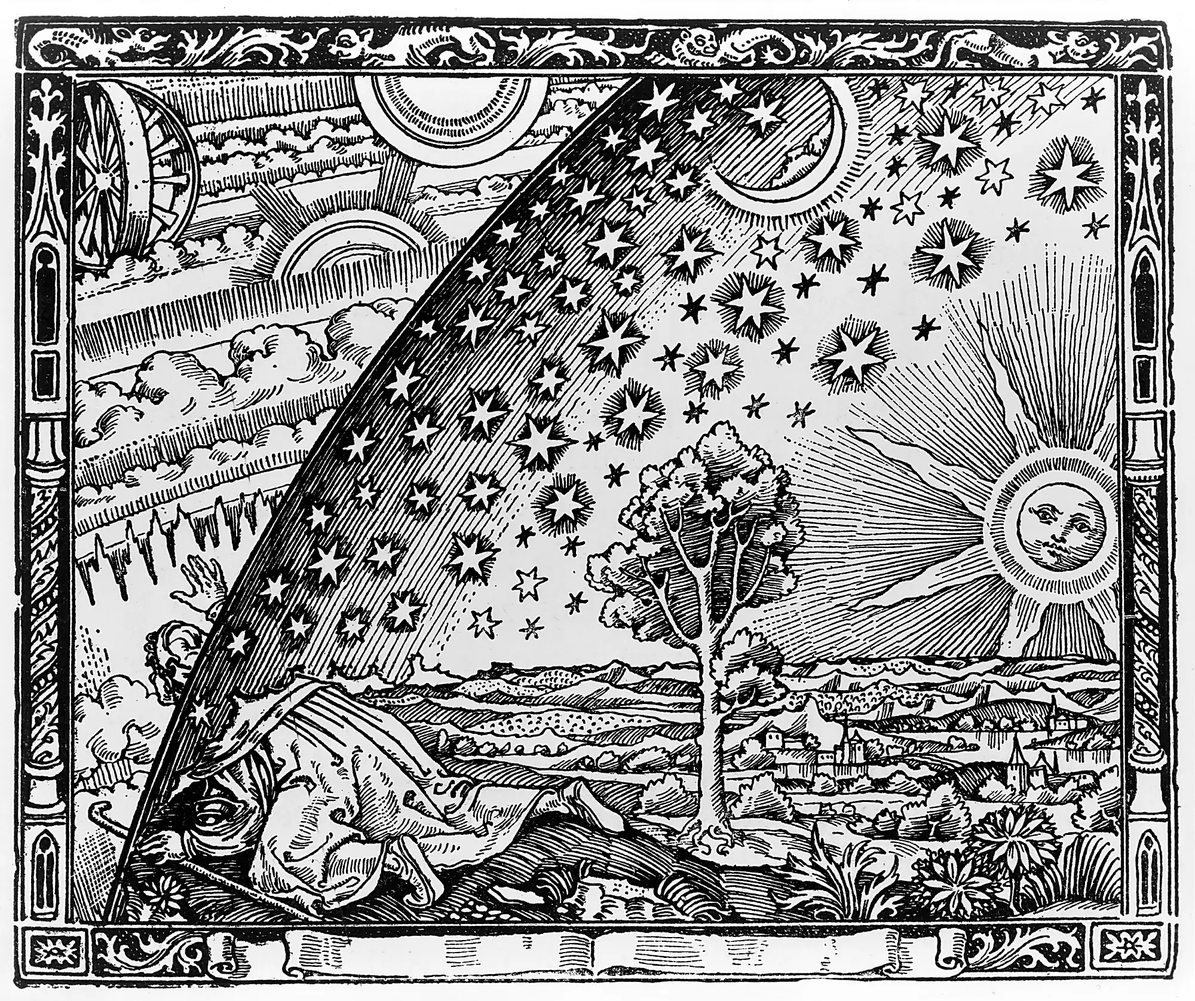
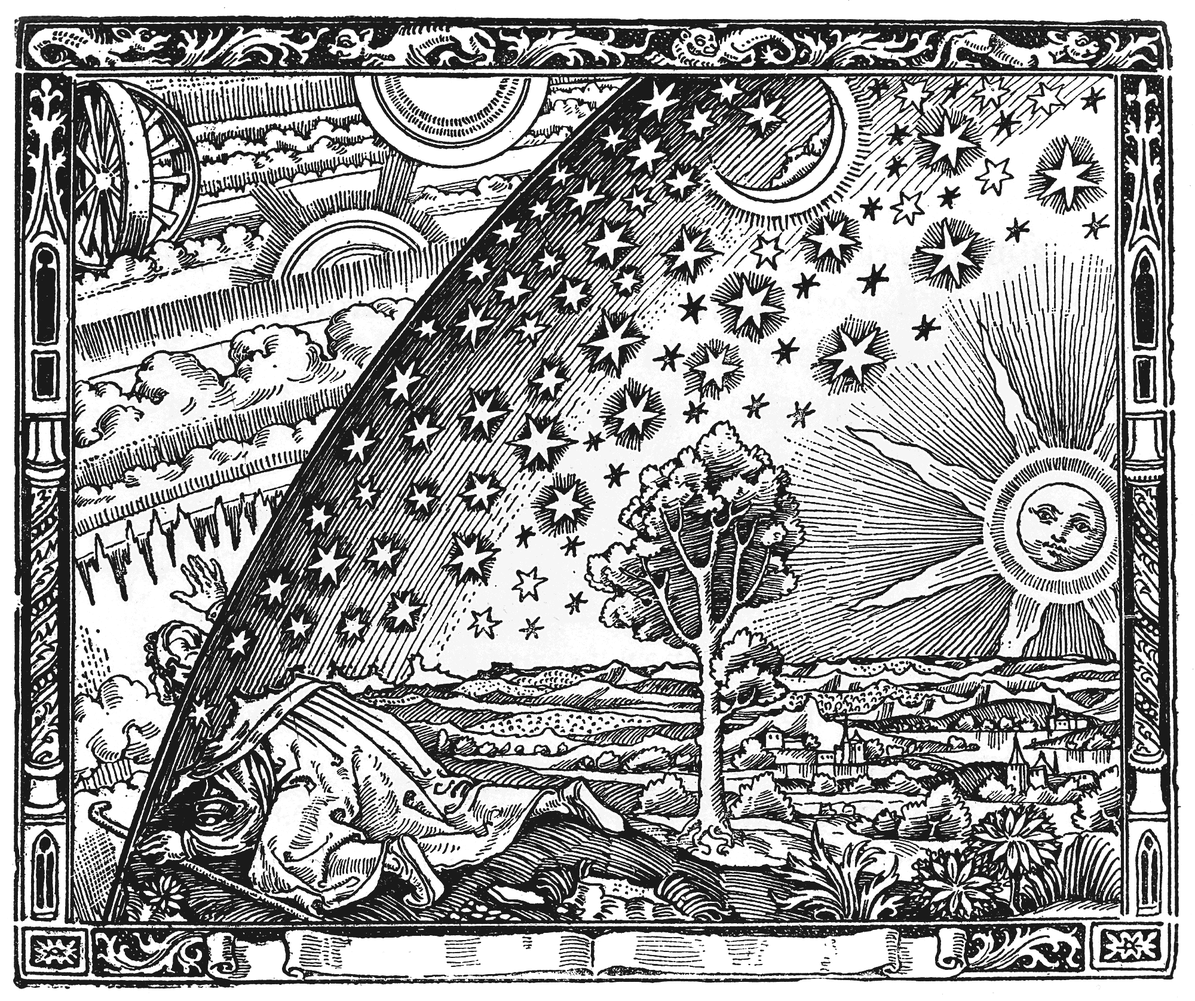
Backdrop: alpha-key the plates so only ink lines remain
The scans' paper is never pure white, so even with multiply blending the
whole page picked up a faint grey veil. The plates are now keyed at
export: luminance maps to alpha (paper >= 232 fully transparent, ink
<= 45 fully opaque, linear between), pixels coloured to the ink tone.
The page stays clean and opacity scales the lines alone.

multiply/grayscale filters dropped from #backdrop and #landing-backdrop
(obsolete), strengths nudged up (0.055 -> 0.07, landing 0.075 -> 0.095)
since the veil no longer contributes.

Changed region(s): [[0.0, 0.031, 0.992, 0.9934], [0.558, 0.031, 0.589, 0.0621], [0.527, 0.9624, 0.558, 0.9934]]

diff --git a/src/App.css b/src/App.css
@@ -51,8 +51,9 @@ body {
 
 /* ─── Engraving backdrop ──────────────────────────────────────────────────────
    Faded public-domain plates (Dürer, Flammarion, Merian…) ghosted into the
-   paper. multiply drops the plate's paper whites into --bg so only the ink
-   lines remain; the low opacity turns them into a pressed-in watermark.
+   paper. The files are alpha-keyed at export: the scan's paper is fully
+   transparent and only the ink lines carry alpha, so the page never picks up
+   a grey veil — opacity here scales the lines alone.
    Sits at z-index -1: above the <html> page colour, below all content.
    In the editor it fades with the chrome while typing (same idle rhythm). */
 #backdrop {
@@ -62,12 +63,10 @@ body {
   pointer-events: none;
   background-repeat: no-repeat;
   background-size: cover;
-  mix-blend-mode: multiply;
-  filter: grayscale(1) contrast(1.05);
   opacity: 0;
   transition: opacity 1.6s ease;
 }
-#backdrop.bd-on { opacity: var(--backdrop-alpha, 0.055); }
+#backdrop.bd-on { opacity: var(--backdrop-alpha, 0.07); }
 
 /* ─── Landing ─────────────────────────────────────────────────────────────── */
 #landing {
@@ -93,9 +92,7 @@ body {
   background-position: center 30%;
   background-size: cover;
   background-repeat: no-repeat;
-  mix-blend-mode: multiply;
-  filter: grayscale(1) contrast(1.05);
-  opacity: 0.075;
+  opacity: 0.095;
   pointer-events: none;
 }
 
